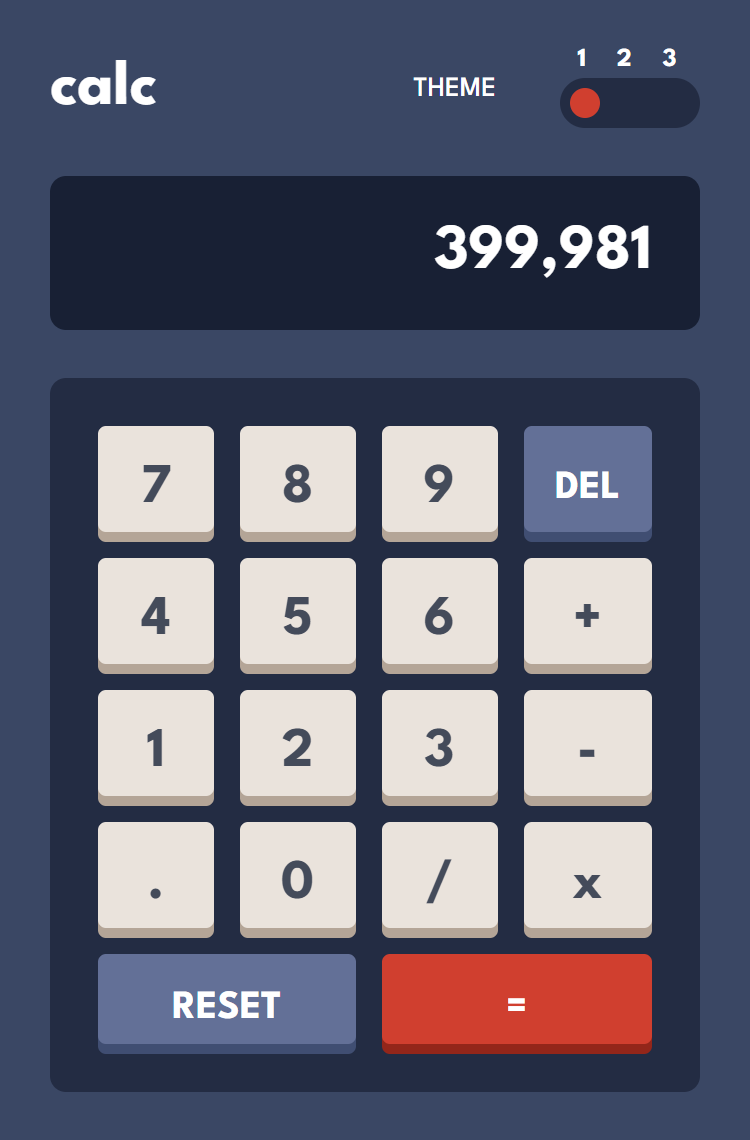
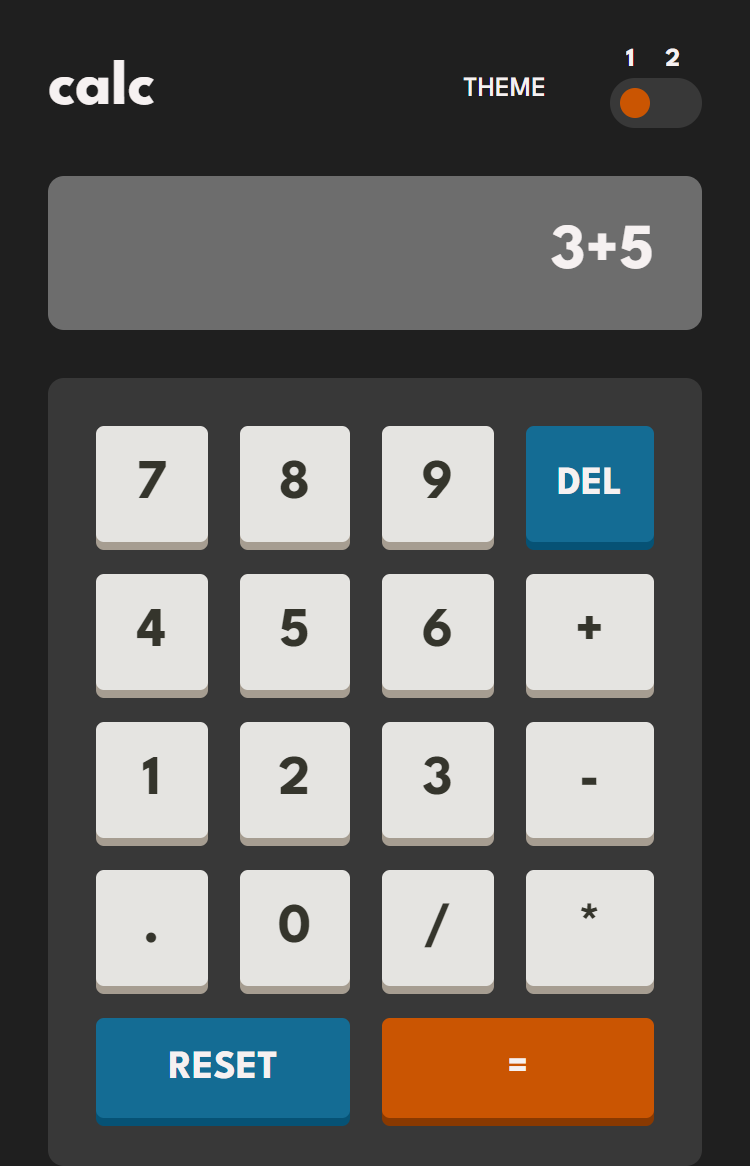
docs readme update

diff --git a/assets/CSS/index.css b/assets/CSS/index.css
@@ -1,29 +1,7 @@
 @import url('https://fonts.googleapis.com/css2?family=League+Spartan:wght@400;500;700&display=swap');
 
 :root {
---main-background: hsl(222, 26%, 31%);
---keypad-background: hsl(223, 31%, 20%);
---screen-background: hsl(224, 36%, 15%);
-
---key-functional-background: hsl(225, 21%, 49%);
---key-functional-hover-background:hsl(224, 29%, 64%);
---key-functional-shadow: hsl(224, 28%, 35%);
---key-equal-background: hsl(6, 63%, 50%);
---key-equal-hover-background: hsl(6, 75%, 58%);
---key-equal-shadow: hsl(6, 70%, 34%);
---key-number-operations-background: hsl(30, 25%, 89%);
---key-number-operations-hover-background: hsl(24, 45%, 98%);
---key-number-operations-shadow: hsl(28, 16%, 65%);
-
---text-primary: hsl(0, 0%, 100%);
---text-secondary: hsl(221, 14%, 31%);
---text-header: hsl(0, 0%, 100%);;
-
---font-primary: 'League Spartan';
-}
-
-.dark-theme:root {
-    --main-background: #000000;
+    --main-background: #1f1f1f;
     --keypad-background: #383838;
     --screen-background: #6d6d6d;
     
@@ -42,7 +20,29 @@
     --text-header: #F6F1F1;
     
     --font-primary: 'League Spartan';
-    }
+}
+
+.light-theme:root {
+--main-background: hsl(0, 0%, 90%);
+--keypad-background: hsl(0, 5%, 81%);
+--screen-background: hsl(0, 0%, 93%);
+
+--key-functional-background: hsl(185, 42%, 37%);
+--key-functional-hover-background: hsl(185, 37%, 50%);
+--key-functional-shadow: hsl(185, 58%, 25%);
+--key-equal-background: hsl(25, 98%, 40%);
+--key-equal-hover-background: hsl(25, 88%, 50%);
+--key-equal-shadow: hsl(25, 99%, 27%);
+--key-number-operations-background: hsl(45, 7%, 89%);
+--key-number-operations-hover-background: hsl(0, 0%, 100%);
+--key-number-operations-shadow: hsl(35, 11%, 61%);
+
+--text-primary: hsl(0, 0%, 100%);
+--text-secondary: hsl(60, 10%, 19%);
+--text-header: hsl(60, 10%, 19%);
+
+--font-primary: 'League Spartan';
+}
 
 * {
     padding: 0;

diff --git a/index.html b/index.html
@@ -14,29 +14,37 @@
 <body>
 
     <main class="calc">
+
         <div class="calc__header">
+
             <h1>calc</h1>
             <div class="calc__theme-container">
+
                 <h3>Theme</h3>
                 <div class="calc__input-container">
+
                     <input type="checkbox" name="" id="checkbox" class="calc__checkbox">
                     <label for="checkbox" class="calc__label">
+
                         <p>1 2</p>
                         <div class="calc__container-ball">
+
                             <div class="calc__ball"></div>
+
                         </div>
                     </label>
-
                 </div>
-                
             </div>
         </div>
 
         <div class="screen">
+
             <h2 class="operations" id="result"></h2>
+
         </div>
 
         <div class="buttons">
+
             <button class="button__buttons button__numbers-operations">7</button>
             <button class="button__buttons button__numbers-operations">8</button>
             <button class="button__buttons button__numbers-operations">9</button>
@@ -54,7 +62,8 @@
             <button class="button__buttons button__numbers-operations">/</button>
             <button class="button__buttons button__numbers-operations">*</button>
             <button class="button__buttons button__functional button__reset">RESET</button>
-            <button class="button__buttons button__equal" id="equalButton">=</button>
+            <button class="button__buttons button__equal">=</button>
+            
         </div>
     </main>
 

diff --git a/assets/JS/index.js b/assets/JS/index.js
@@ -9,18 +9,15 @@ const insert = (num) => {
     let number = result.innerHTML;
     result.innerHTML = number + num;
 }
-
 // Deleta o ultimo caractere
 const delet = () => {
     let resultIn = result.innerHTML
     result.innerHTML = resultIn.substring(0, resultIn.length -1);
 }
-
 // Apaga todos os dados do visor
 const clean = () => {
     result.innerHTML = '';
 }
-
 // Calcula as operações
 const calculate = () => {
     let resultIn = result.innerHTML
@@ -60,6 +57,6 @@ const inputCheckbox = document.querySelector('#checkbox');
 inputCheckbox.addEventListener('click', () => {
     const pageHTML =  document.querySelector('html');
 
-    pageHTML.classList.toggle('dark-theme');
+    pageHTML.classList.toggle('light-theme');
 });
 

diff --git a/README.md b/README.md
@@ -24,8 +24,6 @@ Os usuários devem ser capazes de:
 
 - Ajustar o tema de cores com base em sua preferência
 
-- Bônus: verifique a preferência de tema inicial usando preferes-color-scheme e salve as alterações adicionais no navegador
-
 ### Screenshots
 
 <html>
@@ -37,21 +35,16 @@ Os usuários devem ser capazes de:
   <img src="./assets/IMG/screenshot-desktop-default.png" width="920px">
   <h4>Layout desktop tema claro</h4>
   <img src="./assets/IMG/screenshot-desktop-light.png" width="920px">
-<!--
-    <h4>Layout mobile</h4>
-    <img src="" width="300px">
-    <h4>Layout desktop </h4>
-    <img src="" width="920px">
--->
 </html>
 
 ## Minha caminhada
 
-- [x] Preparativos do layout com mobile-first 
 - [x] Layout mobile
-- [x] Features de inserir, limpar, deletar e calcular
 - [x] Layout desktop
+- [x] Features da calculadora
 - [x] Feature de temas
+
+
 
 ### Propriedades
 
